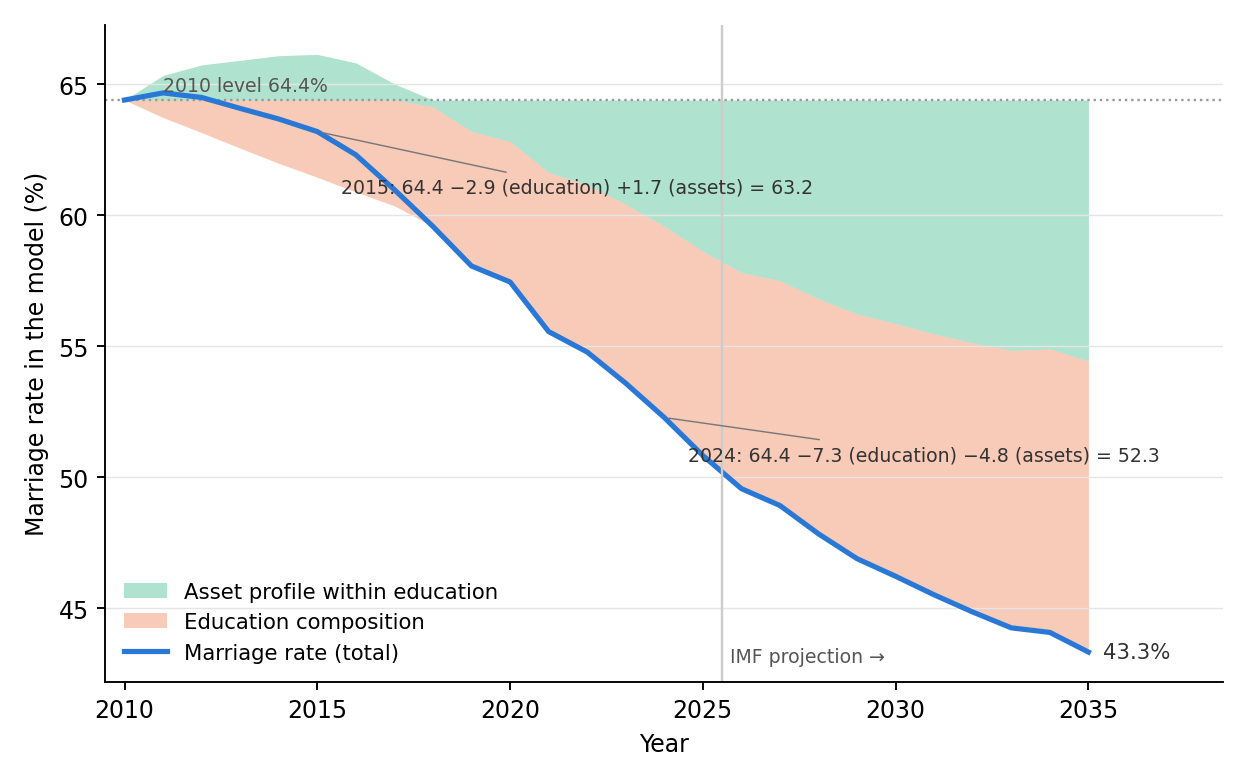
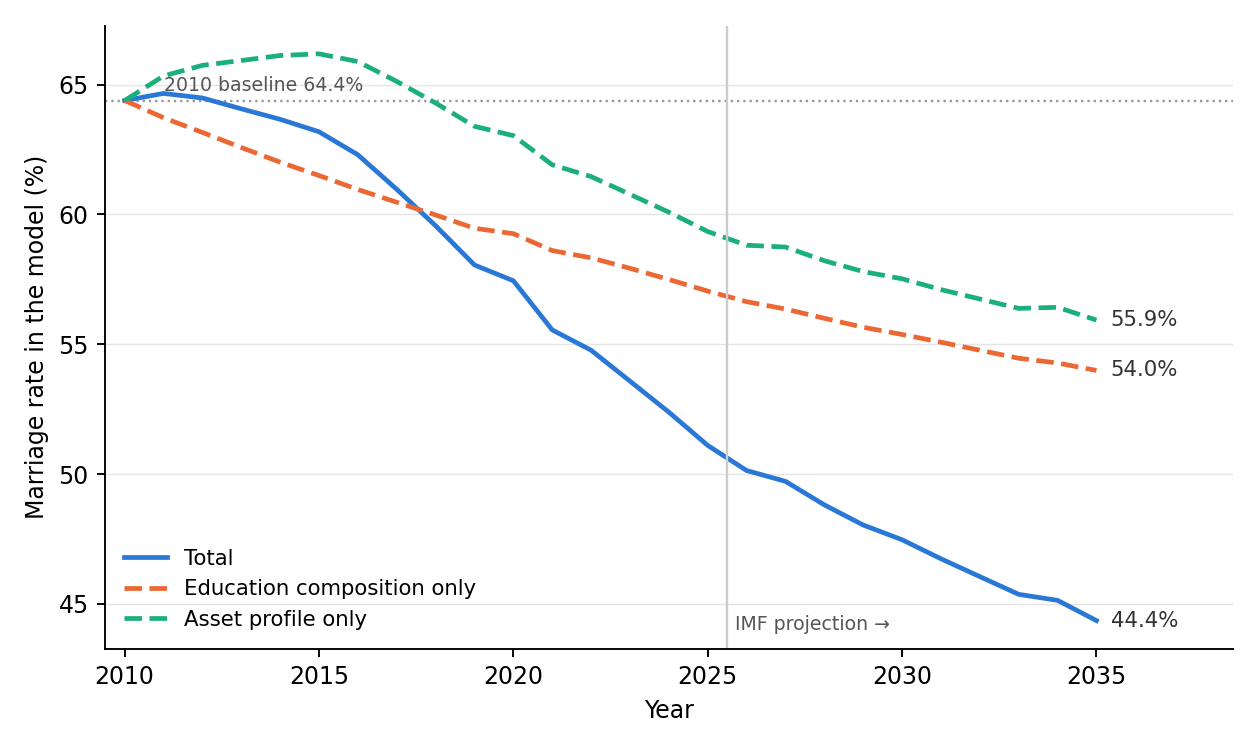
Research: restore original JMP figure and caption

diff --git a/research.html b/research.html
@@ -55,8 +55,8 @@
         equal-sized transfers to parents lower it.
       </p>
       <figure>
-        <img src="images/marriage_rate.png?v=2" alt="Model marriage rate along China’s GDP path, 2010–2035, with the change from the 2010 level split into education-composition and asset-profile contributions">
-        <figcaption>Marriage rate along China’s GDP path, 2010–2035: the change from the 2010 level split into education-composition and asset-profile contributions.</figcaption>
+        <img src="images/marriage_rate.png?v=3" alt="Model-implied marriage rate from 2010 to 2035: total, education composition only, and asset profile only">
+        <figcaption>Model-implied marriage rate, 2010–2035, decomposed into education composition and asset profile channels.</figcaption>
       </figure>
     </article>
 
